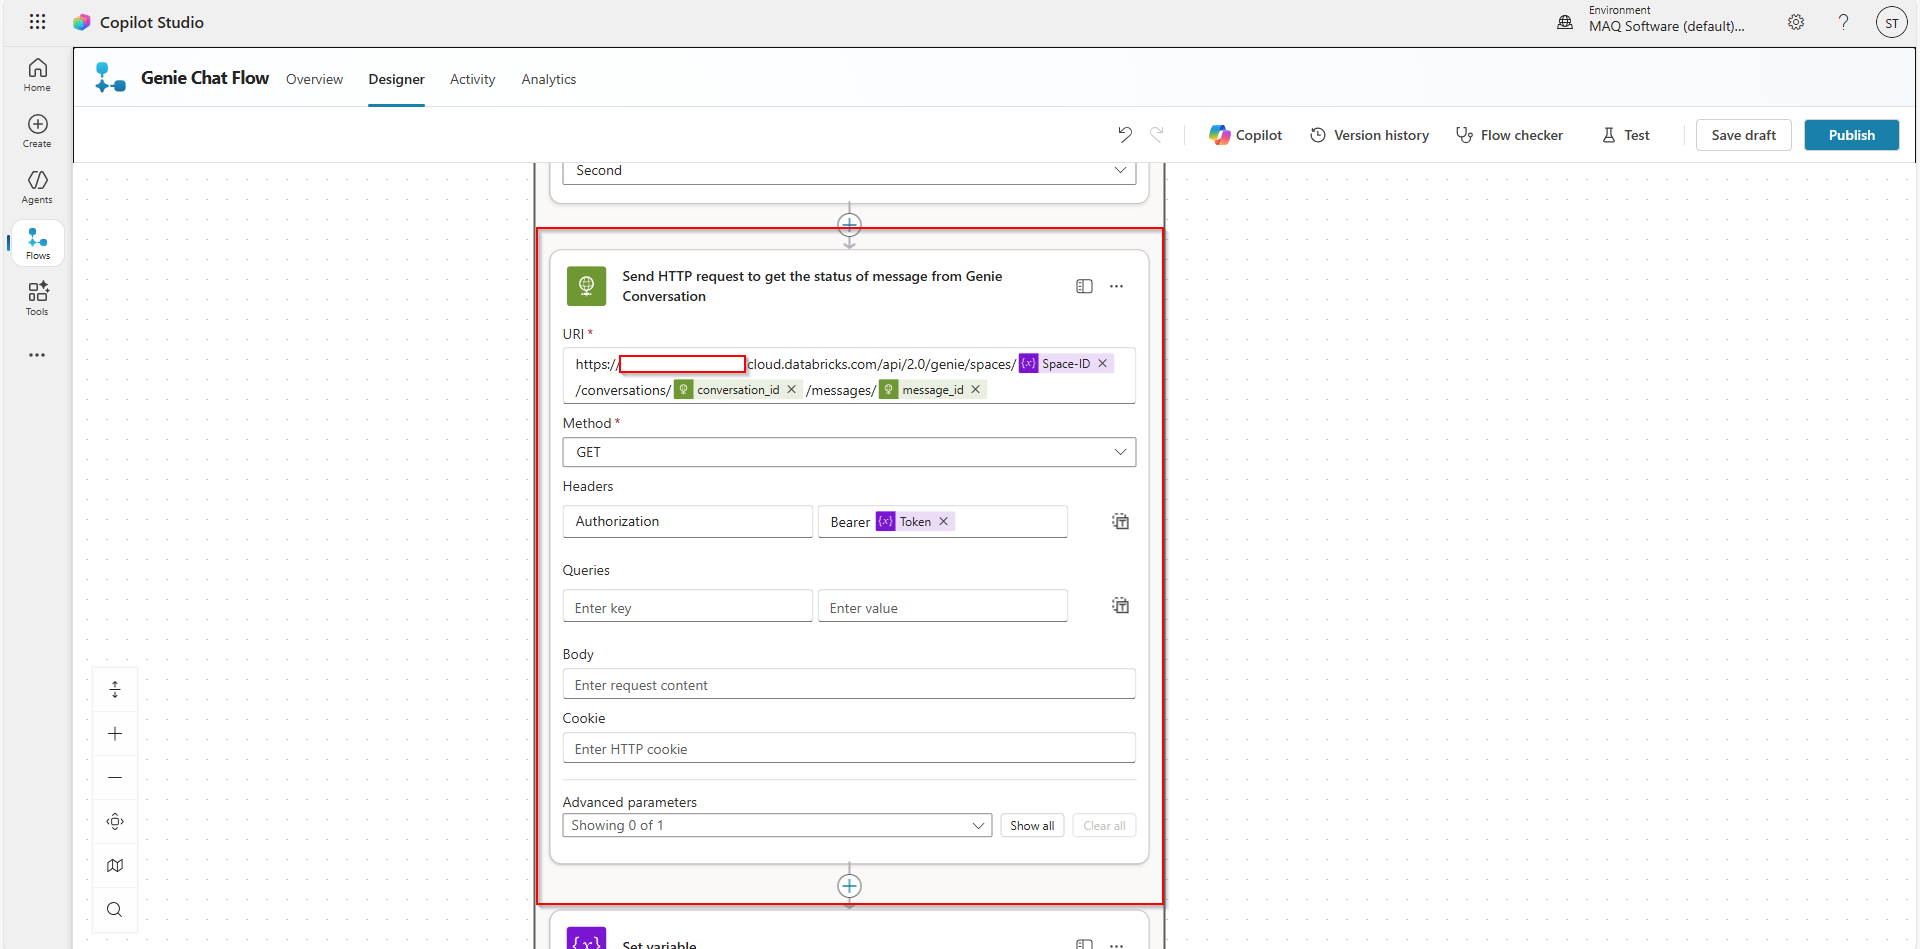
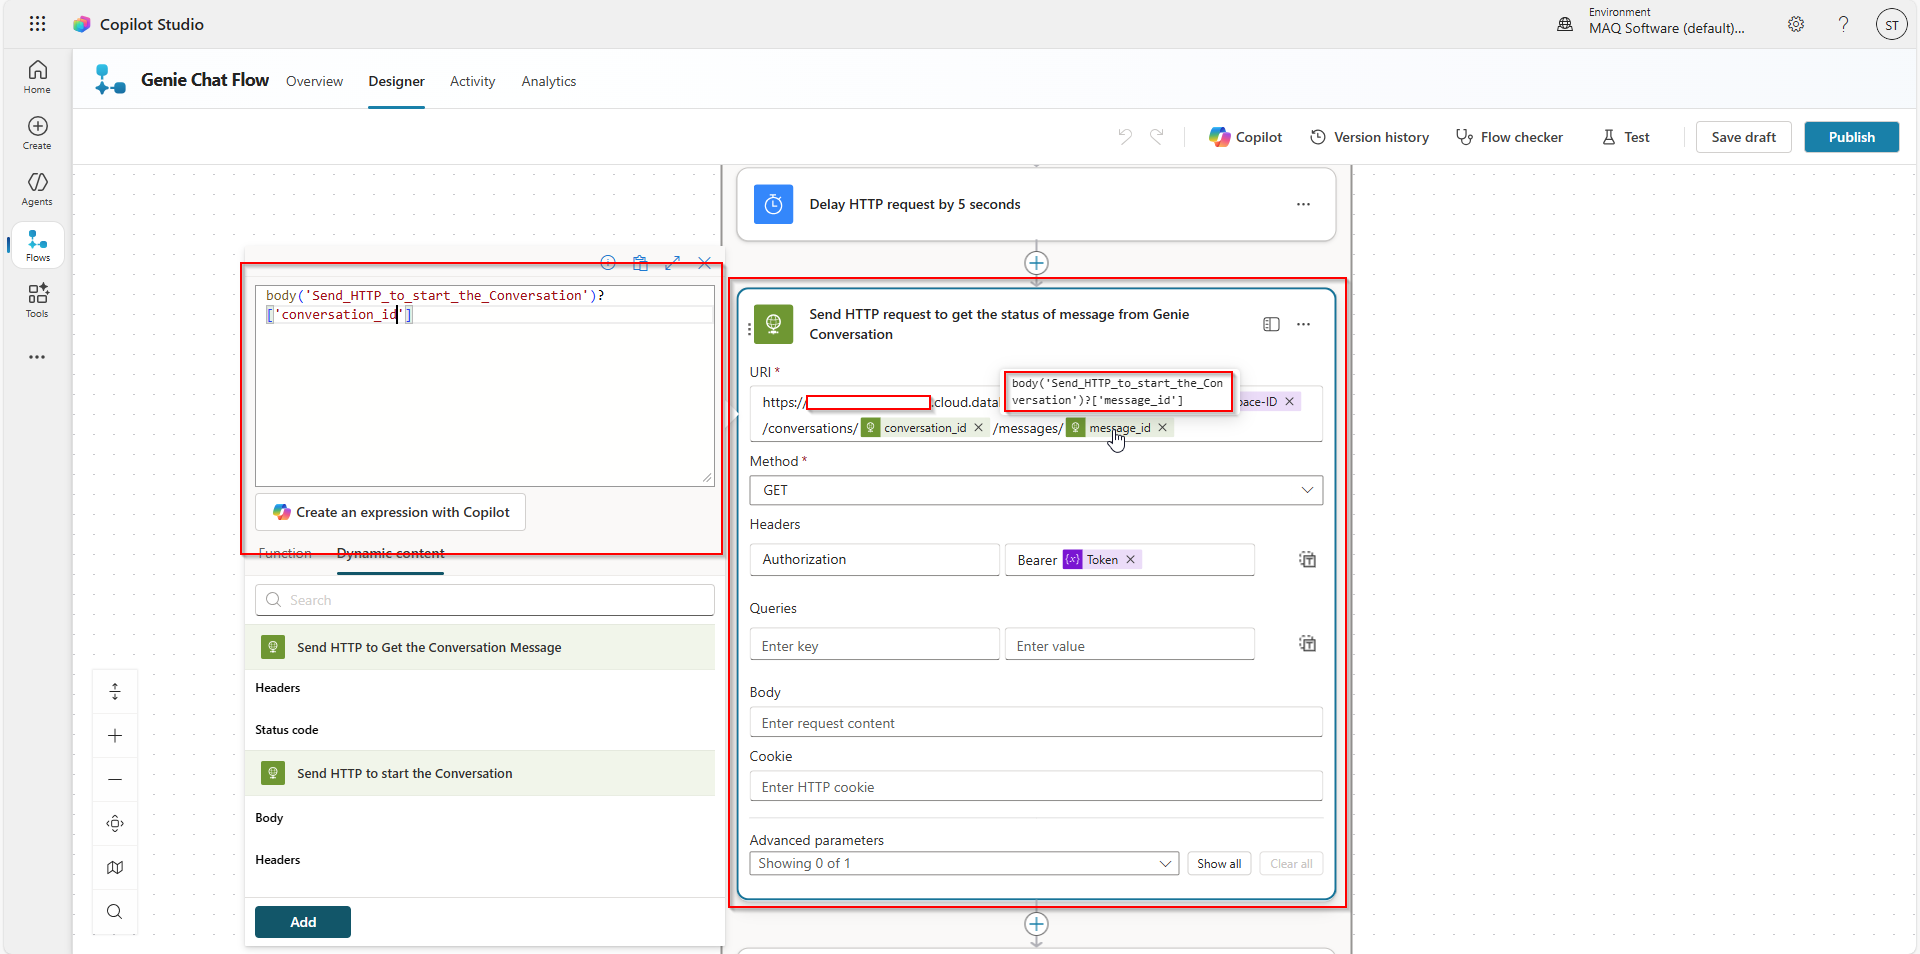
Minor changes 2-comments from Amol

diff --git a/docs/agent-steps/Copilot_Studio_Agent_Flow_Setup.md b/docs/agent-steps/Copilot_Studio_Agent_Flow_Setup.md
@@ -9,8 +9,8 @@
 | 3 | Click on **New agent flow**. | ![step-2](../../screenshots/Copilot_Studio_Agent_Flow_Setup/step-2.png) |
 | 4 | Add the **When an agent calls the flow** trigger. Add an input for **User Query** as text. | ![step-3](../../screenshots/Copilot_Studio_Agent_Flow_Setup/step-3.png) |
 | 5 | Click on the Plus symbol under the **When an agent calls the flow** action. Search and add **Initialize Variable** actions for:<br>- **Space-ID** (String): User needs to fill the Space ID of the Databricks Genie <br>- **Token** (String): User needs to fill the PAT Token of Databricks <br>- **Text Output** (String): Stores text output from Databricks Genie - initial value to be left empty <br>- **Inline Data** (Object): Stores query results for visualization - initial value to be left empty | ![step-4](../../screenshots/Copilot_Studio_Agent_Flow_Setup/step-4.png) |
-| 6 | Add an **HTTP** action from the HTTP subsection to send a **POST** request to the Databricks Genie API to start the conversation:<br>- **URL:** `<Your Databricks endpoint>/api/2.0/genie/spaces/<Space-ID>/start-conversation`<br>- **Header:** `Authorization: Bearer <Token variable>`<br>- **Body:** JSON with `content: User Query` | ![step-5.1](../../screenshots/Copilot_Studio_Agent_Flow_Setup/step-5.1.png)<br>![step-5.1.1](../../screenshots/Copilot_Studio_Agent_Flow_Setup/step-5.1.1.png)<br>![step-5.2](../../screenshots/Copilot_Studio_Agent_Flow_Setup/step-5.2.png)![step-5.3](../../screenshots/Copilot_Studio_Agent_Flow_Setup/step-5.3.png)<br> |
-| 7 | Add an **HTTP** action to send a **GET** request to Databricks Genie API to get the status of the conversation message (use `conversation_id` and `message_id` from previous step):<br>- **URL:** `<Your Databricks endpoint>/api/2.0/genie/spaces/<Space-ID>/conversations/<conversation_id>/messages/<message_id>`<br>- **Header:** `Authorization: Bearer <Token variable>` | ![step-6](../../screenshots/Copilot_Studio_Agent_Flow_Setup/step-6.png) |
+| 6 | Add an **HTTP** action from the HTTP subsection to send a **POST** request to the Databricks Genie API to start the conversation:<br>- **URL:** `<Your Databricks endpoint>/api/2.0/genie/spaces/<Space-ID>/start-conversation`<br>- **Header:** `Authorization: Bearer <Token variable>`<br>- **Body:** JSON with `content: User Query` | ![step-5.1](../../screenshots/Copilot_Studio_Agent_Flow_Setup/step-5.1.png)<br>![step-5.2.1](../../screenshots/Copilot_Studio_Agent_Flow_Setup/step-5.2.1.png)<br>![step-5.2.2](../../screenshots/Copilot_Studio_Agent_Flow_Setup/step-5.2.2.png)![step-5.3](../../screenshots/Copilot_Studio_Agent_Flow_Setup/step-5.3.png)<br> |
+| 7 | Add an **HTTP** action to send a **GET** request to Databricks Genie API to get the status of the conversation message (use `conversation_id` and `message_id` from previous step):<br>- **URL:** `<Your Databricks endpoint>/api/2.0/genie/spaces/<Space-ID>/conversations/<conversation_id>/messages/<message_id>`<br>- **Header:** `Authorization: Bearer <Token variable>` | ![step-6.1](../../screenshots/Copilot_Studio_Agent_Flow_Setup/step-6.1.png)<br>![step-6.2](../../screenshots/Copilot_Studio_Agent_Flow_Setup/step-6.2.png) |
 | 8 | Add **Initialize Variable** action to store the status of the conversation message. | ![step-7](../../screenshots/Copilot_Studio_Agent_Flow_Setup/step-7.png) |
 | 9 | Add an **HTTP** action to send a **GET** request to Databricks Genie API to get the status of the conversation message every 5 seconds until the status is **SUCCEEDED**: <br>&nbsp;&nbsp;&nbsp;1. Add a **Do until** action to check the status. <br>&nbsp;&nbsp;&nbsp;2. Inside the **Do until** action, add a **Delay** action (not **Delay until** action) to keep a delay of 5 seconds between the pings. <br>&nbsp;&nbsp;&nbsp;3. Add an **HTTP** action from the HTTP subsection to send the get request from the Genie Conversation API using the following details:<br>&nbsp;&nbsp;&nbsp;&nbsp;&nbsp;&nbsp;- **URL:** `<Your Databricks endpoint>/api/2.0/genie/spaces/<Space-ID>/conversations/<conversation_id>/messages/<message_id>`<br>&nbsp;&nbsp;&nbsp;&nbsp;&nbsp;&nbsp;- **Header:** `Authorization: Bearer <Token variable>`<br>&nbsp;&nbsp;&nbsp;4. Add a **Set Variable** action to update the Status variable with the current value of HTTP action. <br>&nbsp;&nbsp;&nbsp;5. Update the until part with **Status** is equal to COMPLETED. | ![step-8.1](../../screenshots/Copilot_Studio_Agent_Flow_Setup/step-8.1.png)<br>![step-8.2](../../screenshots/Copilot_Studio_Agent_Flow_Setup/step-8.2.png)![step-8.3](../../screenshots/Copilot_Studio_Agent_Flow_Setup/step-8.3.png)<br>![step-8.4](../../screenshots/Copilot_Studio_Agent_Flow_Setup/step-8.4.png) |
 | 10 | Add an **HTTP** action to send a **GET** request to Databricks Genie API to get the message content:<br>- **URL:** `<Your Databricks endpoint>/api/2.0/genie/spaces/<Space-ID>/conversations/<conversation_id>/messages/<message_id>`<br>- **Header:** `Authorization: Bearer <Token variable>` | ![step-9](../../screenshots/Copilot_Studio_Agent_Flow_Setup/step-9.png) |
